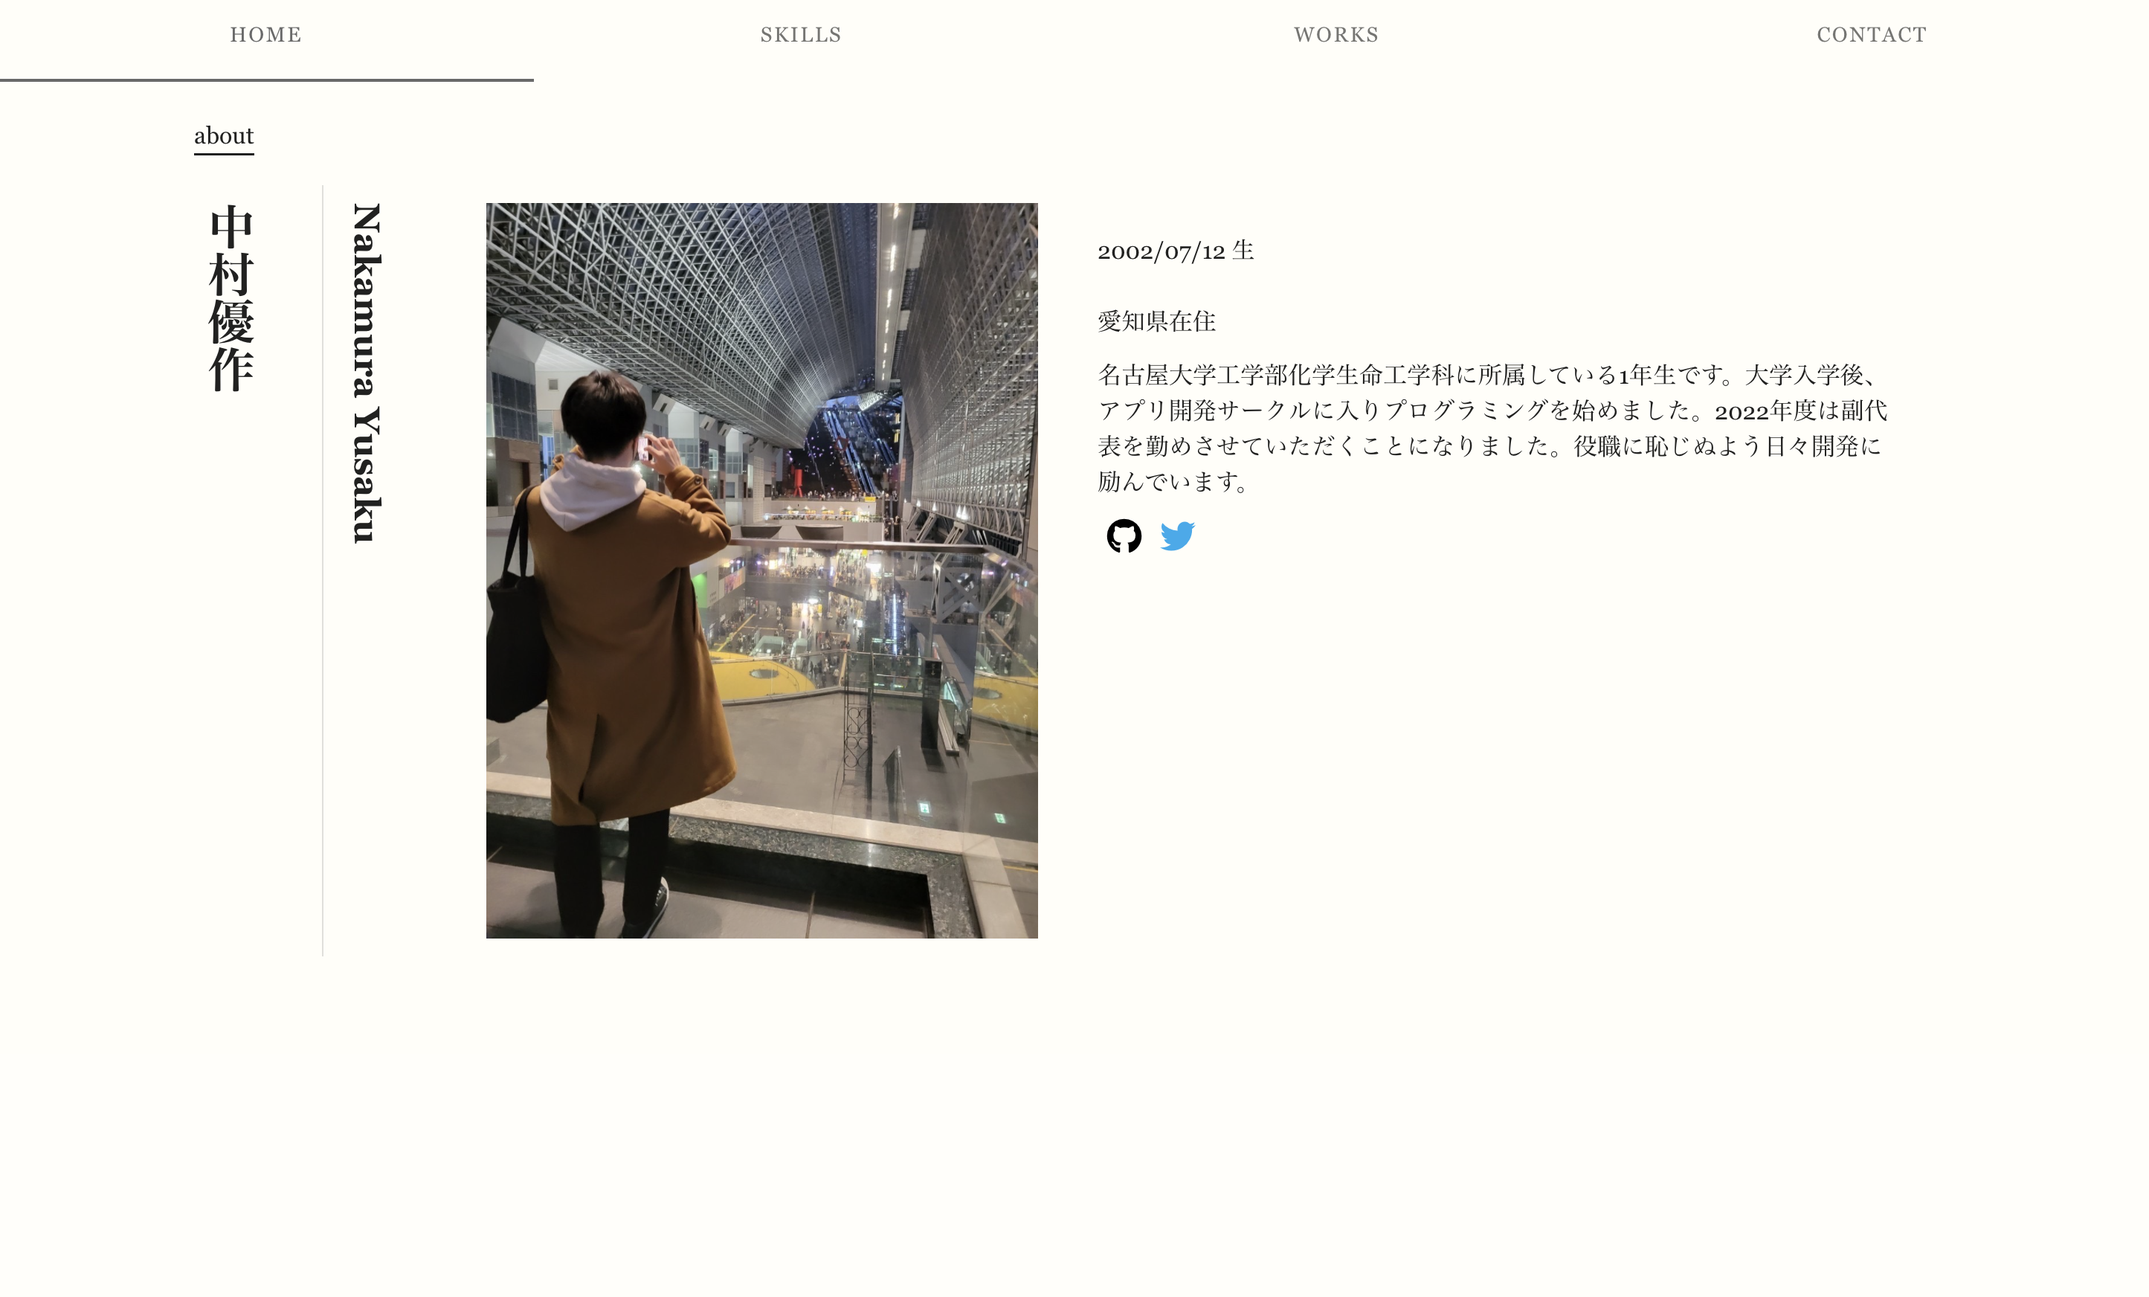
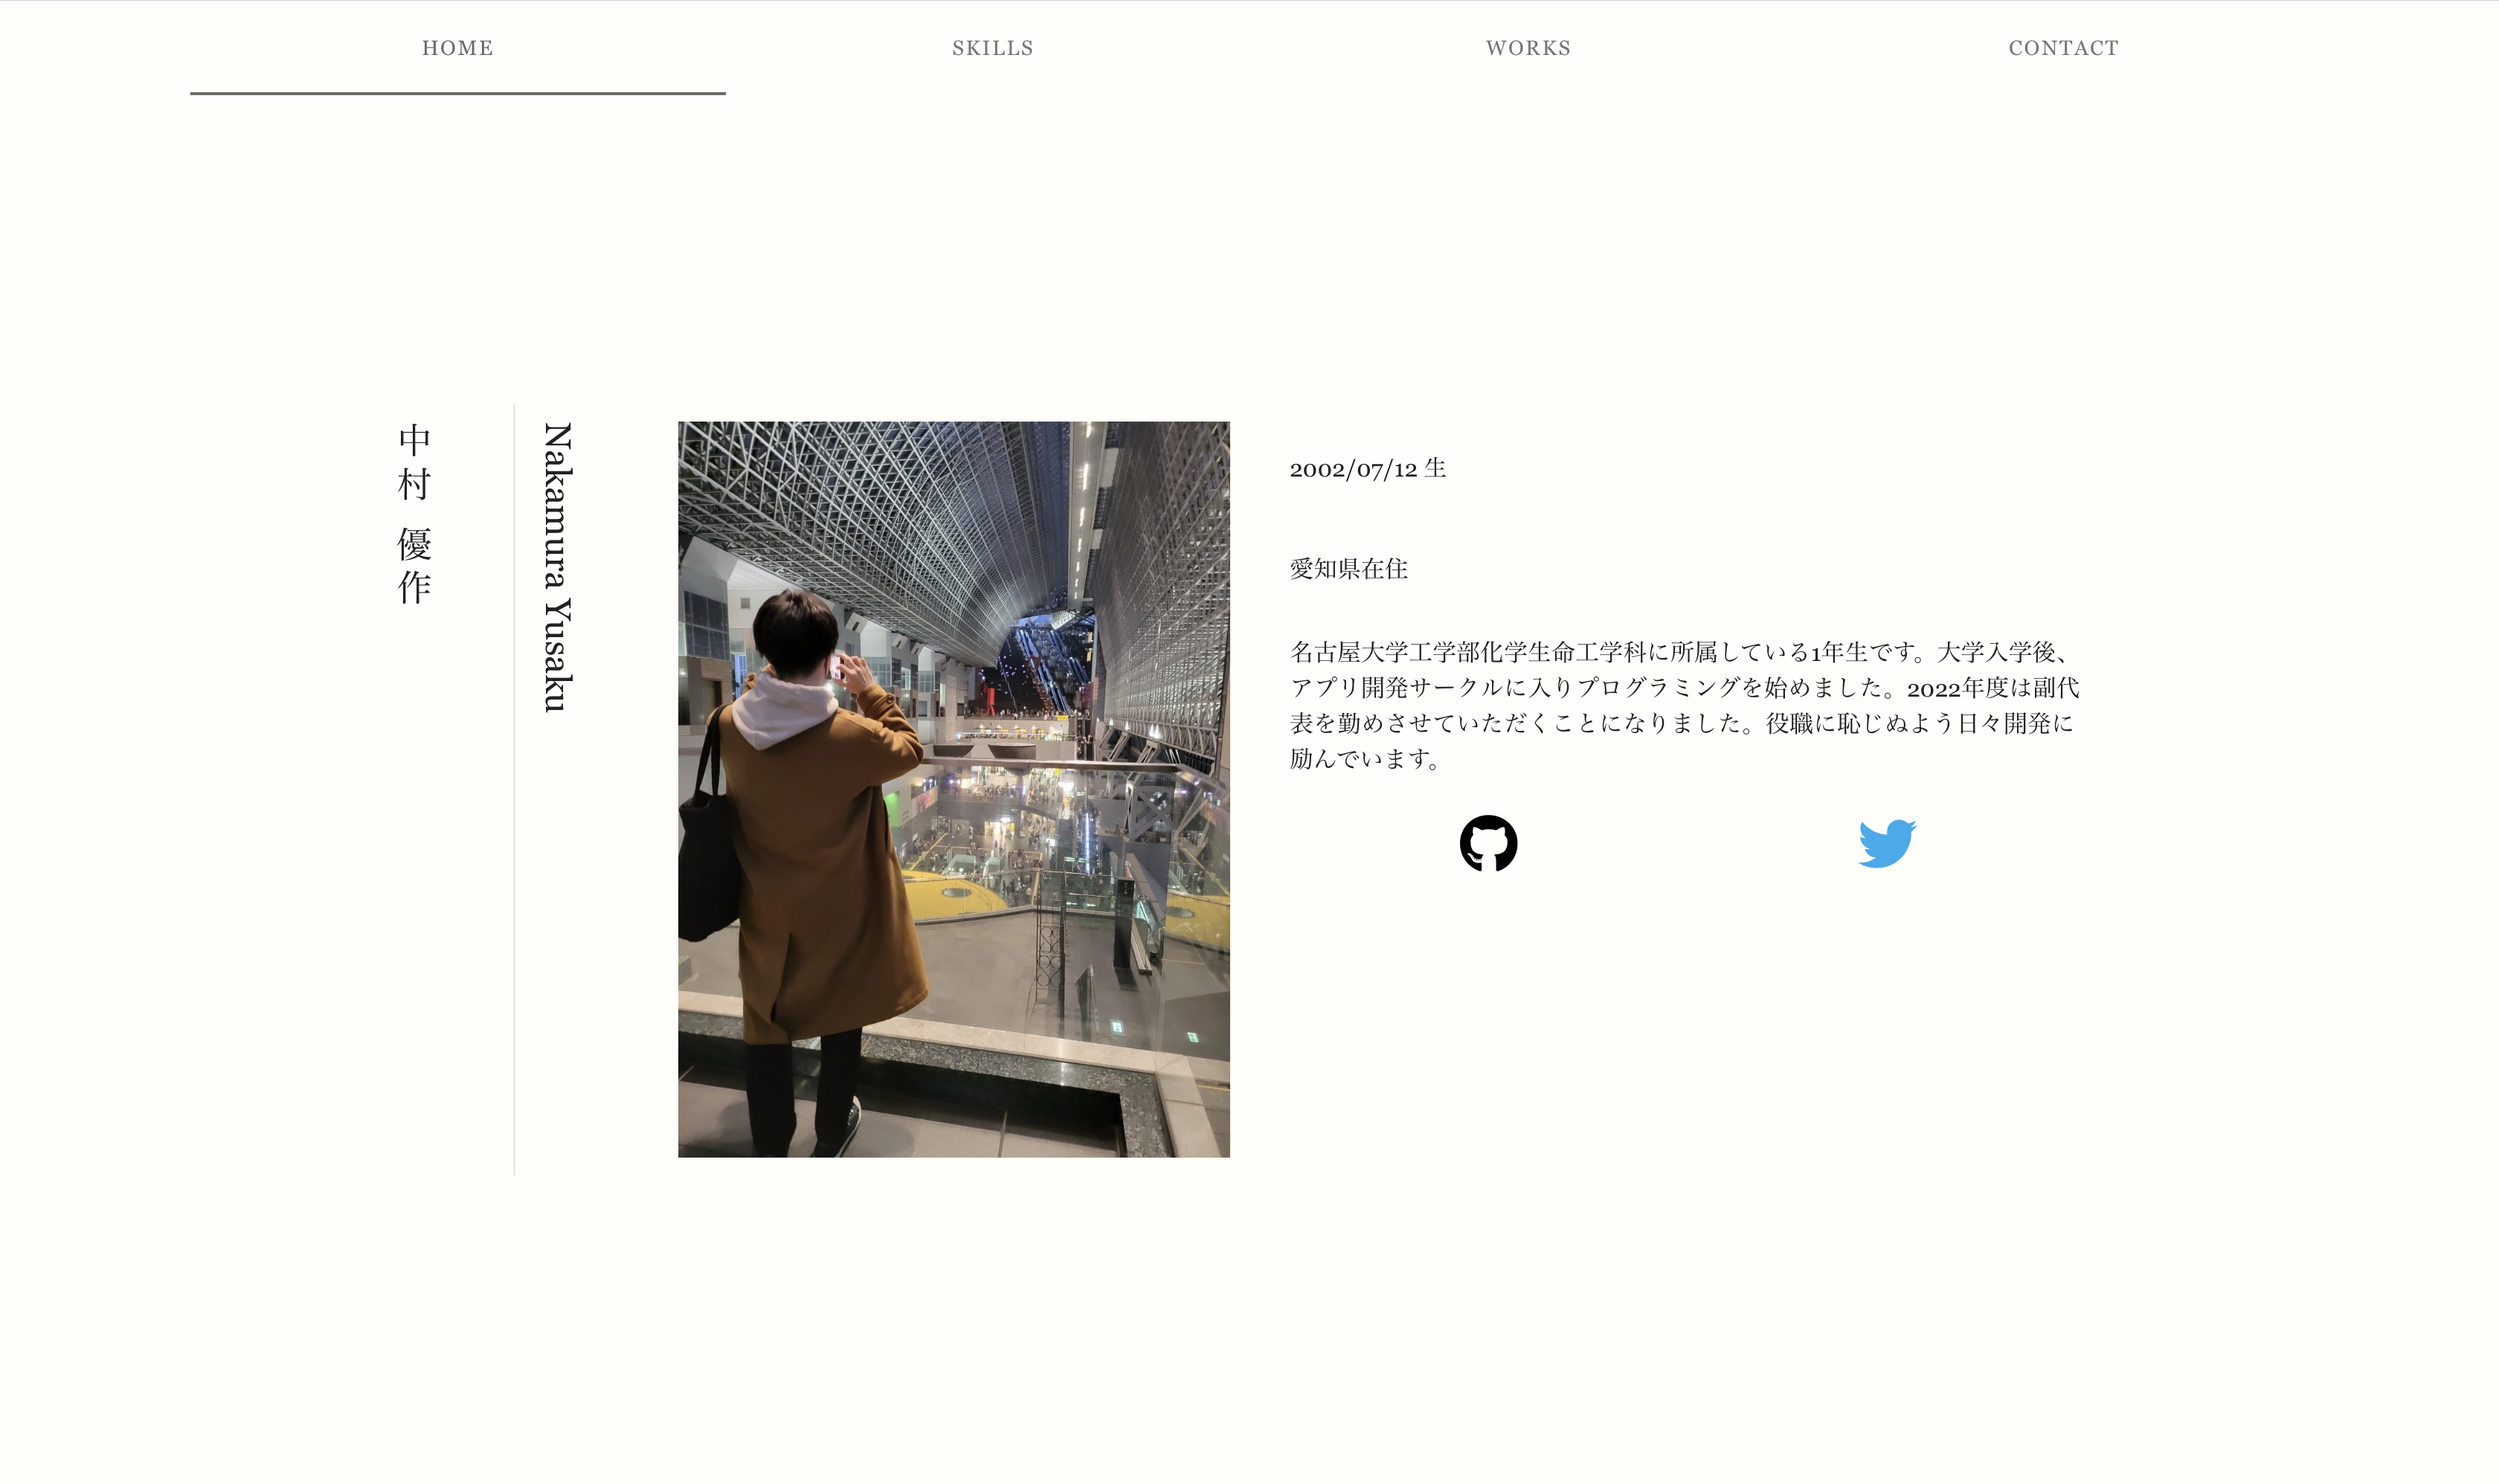
全体的にレイアウト整えた

diff --git a/src/views/WorksPage.vue b/src/views/WorksPage.vue
@@ -5,7 +5,8 @@
             <v-card :elevation="hover ? 5 : 1"  @click="openWindow(product.url)" color="#fffef9">
                 <v-img :src="product.image" :aspect-ratio="16/9"></v-img>
                 <v-row class="row-text">
-                    <v-card-title>{{ product.title }}</v-card-title>
+                    <v-card-title class="workTitle">{{ product.title }}</v-card-title>
+                    <!-- <v-card-subtitle class="workTitle">{{ product.language }}</v-card-subtitle> -->
                     <v-card-text>{{ product.description }}</v-card-text>
                 </v-row>
             </v-card>
@@ -25,29 +26,33 @@ export default {
         return{
             products: [
                 {
-                    image: require('../assets/abehiroshi.png'),
-                    title: "文字稼ぎ",
-                    description: "レポートなどの文字数を稼いでくれるアプリです。",
-                    url: "#"
-                },
-                {
-                    image: require('../assets/conantitle.png'),
-                    title: "コナンタイトルジェネレーター",
-                    description: "某殺人ラブコメ漫画の映画のタイトルにありそうな文言を生成します。",
-                    url: "#"
+                    image: require('../assets/hanamaru.png'),
+                    title: "hanamaru (開発中)",
+                    description: "タスクを終えると褒めてくれるtodoアプリです。",
+                    url: "https://github.com/mina1112/jackadvice-2021-wb",
+                    language: "HTML/CSS, Vue.js, Django"
                 },
                 {
                     image: require('../assets/portfolio.png'),
                     title: "yutteee-portfolio",
                     description: "本ポートフォリオサイトです。",
-                    url: "#"
+                    url: "#",
+                    language: "HTML/CSS, Vue.js"
                 },
                 {
-                    image: require('../assets/hanamaru.jpg'),
-                    title: "hanamaru",
-                    description: "タスクを終えると褒めてくれるtodoアプリです。",
-                    url: "https://github.com/mina1112/jackadvice-2021-wb"
-                }
+                    image: require('../assets/conantitle.png'),
+                    title: "コナンタイトルジェネレーター",
+                    description: "某殺人ラブコメ漫画の映画のタイトルにありそうな文言を生成します。",
+                    url: "#",
+                    language: "HTML/css, JavaScript"
+                },
+                {
+                    image: require('../assets/PHP.png'),
+                    title: "文字稼ぎ",
+                    description: "レポートなどの文字数を稼いでくれるアプリです。",
+                    url: "#",
+                    language: "HTML/css, JavaScript"
+                },
             ]
         }
     },
@@ -65,10 +70,18 @@ export default {
     width: 50%;
 }
 
+.workTitle {
+    margin: 0 auto;
+}
+
+.row-text {
+    text-align: center;
+}
+
 .v-card {
     display: flex;
     width: 100%;
-    margin: 12px;
+    margin-top: 36px;
 }
 
 .v-card:nth-child(odd){

diff --git a/src/views/HomePage.vue b/src/views/HomePage.vue
@@ -1,31 +1,31 @@
 
 <template>
-    <v-container>
+    <v-container fill-height>
         <link href="https://use.fontawesome.com/releases/v5.0.13/css/all.css" rel="stylesheet">
         <MyHeader></MyHeader>
-        <p>about</p>
+        <!-- <p>about</p> -->
         <v-row>
-            <v-col cols="2" sm="1">
+            <v-col cols="2" md="1">
                 <div class="name kanji">中村 優作</div>
             </v-col>
             <v-divider vertical></v-divider>
-            <v-col cols="2" sm="1">
+            <v-col cols="2" md="1">
                 <div class="name">Nakamura Yusaku</div>
             </v-col>
-            <v-col cols="8" sm="4">
+            <v-col cols="8" md="4">
                 <v-img src="../assets/yuttee.png"></v-img>
             </v-col>
-            <v-col cols="12" sm="6">
+            <v-col cols="12" md="6">
                 <v-list color="#fffef9">
                     <v-list-item>2002/07/12 生</v-list-item>
                     <v-list-item>愛知県在住</v-list-item>
                     <v-list-item>名古屋大学工学部化学生命工学科に所属している1年生です。大学入学後、アプリ開発サークルに入りプログラミングを始めました。2022年度は副代表を勤めさせていただくことになりました。役職に恥じぬよう日々開発に励んでいます。</v-list-item>
                     <v-list-item>
                         <v-btn href="https://github.com/yutteee" icon>
-                            <v-icon class="fab fa-github icon" color="#000"></v-icon>
+                            <v-icon class="fab fa-github icon" color="#000" x-large></v-icon>
                         </v-btn>
                         <v-btn href="https://twitter.com/yutteeelog" icon>
-                            <v-icon class="fab fa-twitter icon" color="#00acee"></v-icon>
+                            <v-icon class="fab fa-twitter icon" color="#00acee" x-large></v-icon>
                         </v-btn>
                     </v-list-item>
                 </v-list>
@@ -56,8 +56,15 @@ export default {
 }
 
 P {
-    margin-bottom: 32px;
     border-bottom: solid;
     display: inline-block;
+}
+
+.v-btn {
+    width: 50%;
+}
+
+.v-list-item {
+    margin-bottom: 20px;
 }
 </style>

diff --git a/src/views/SkillsPage.vue b/src/views/SkillsPage.vue
@@ -1,5 +1,5 @@
 <template>
-    <v-container>
+    <v-container fill-height>
     <MyHeader></MyHeader>
         <v-row>
             <v-col v-for="language in languages" :key="language.name" cols="12" sm="6">
